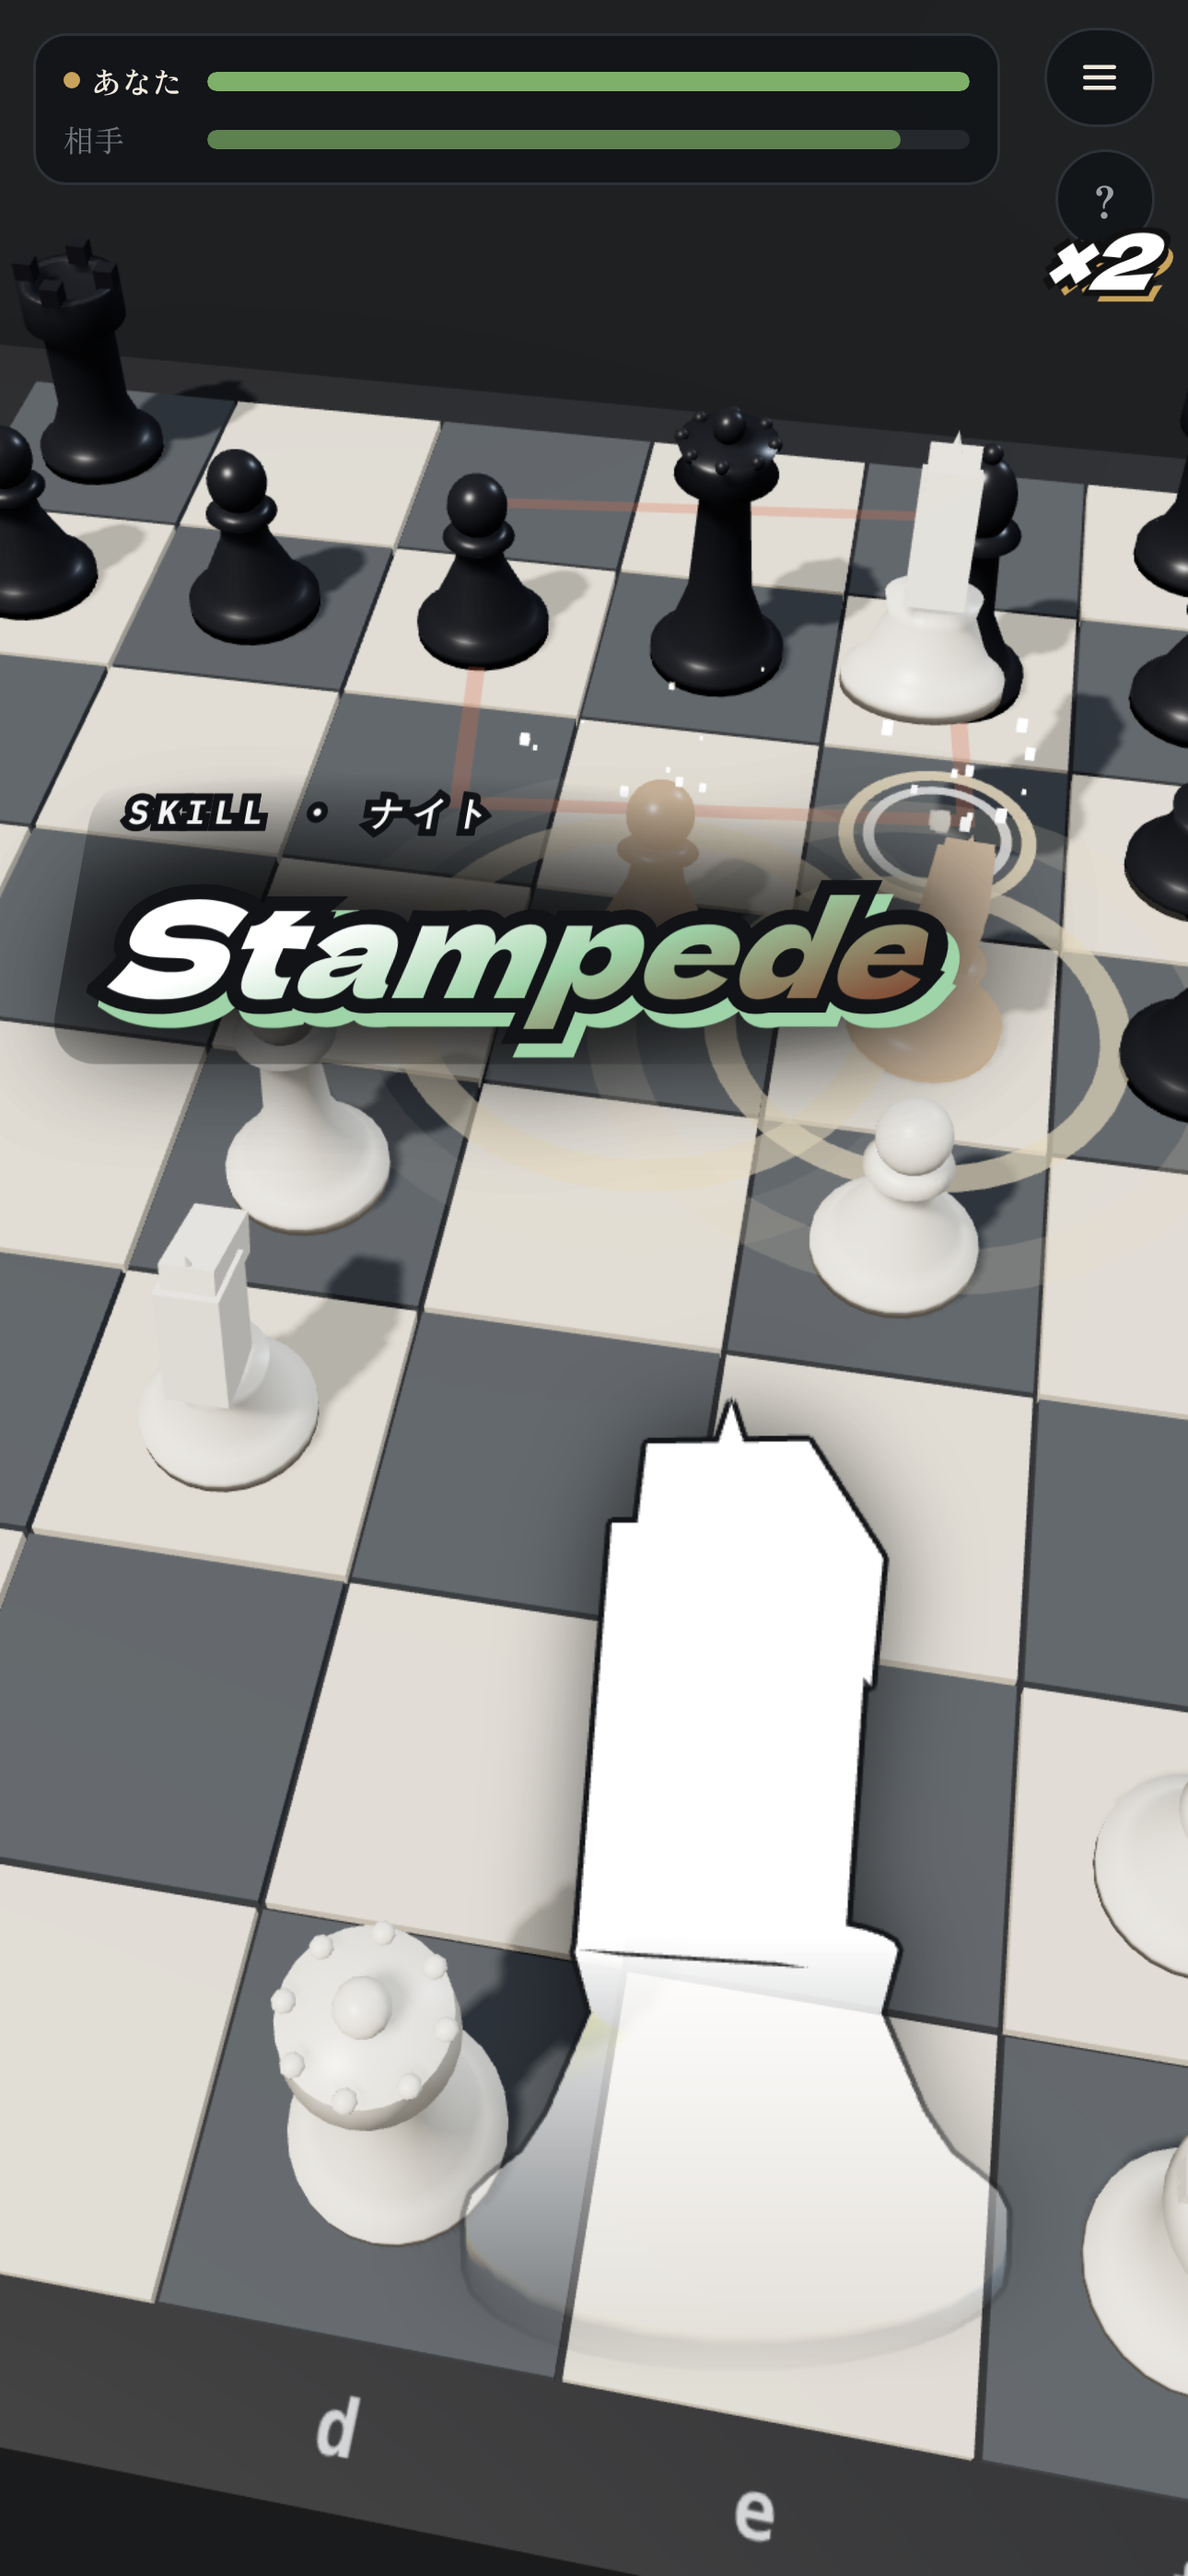
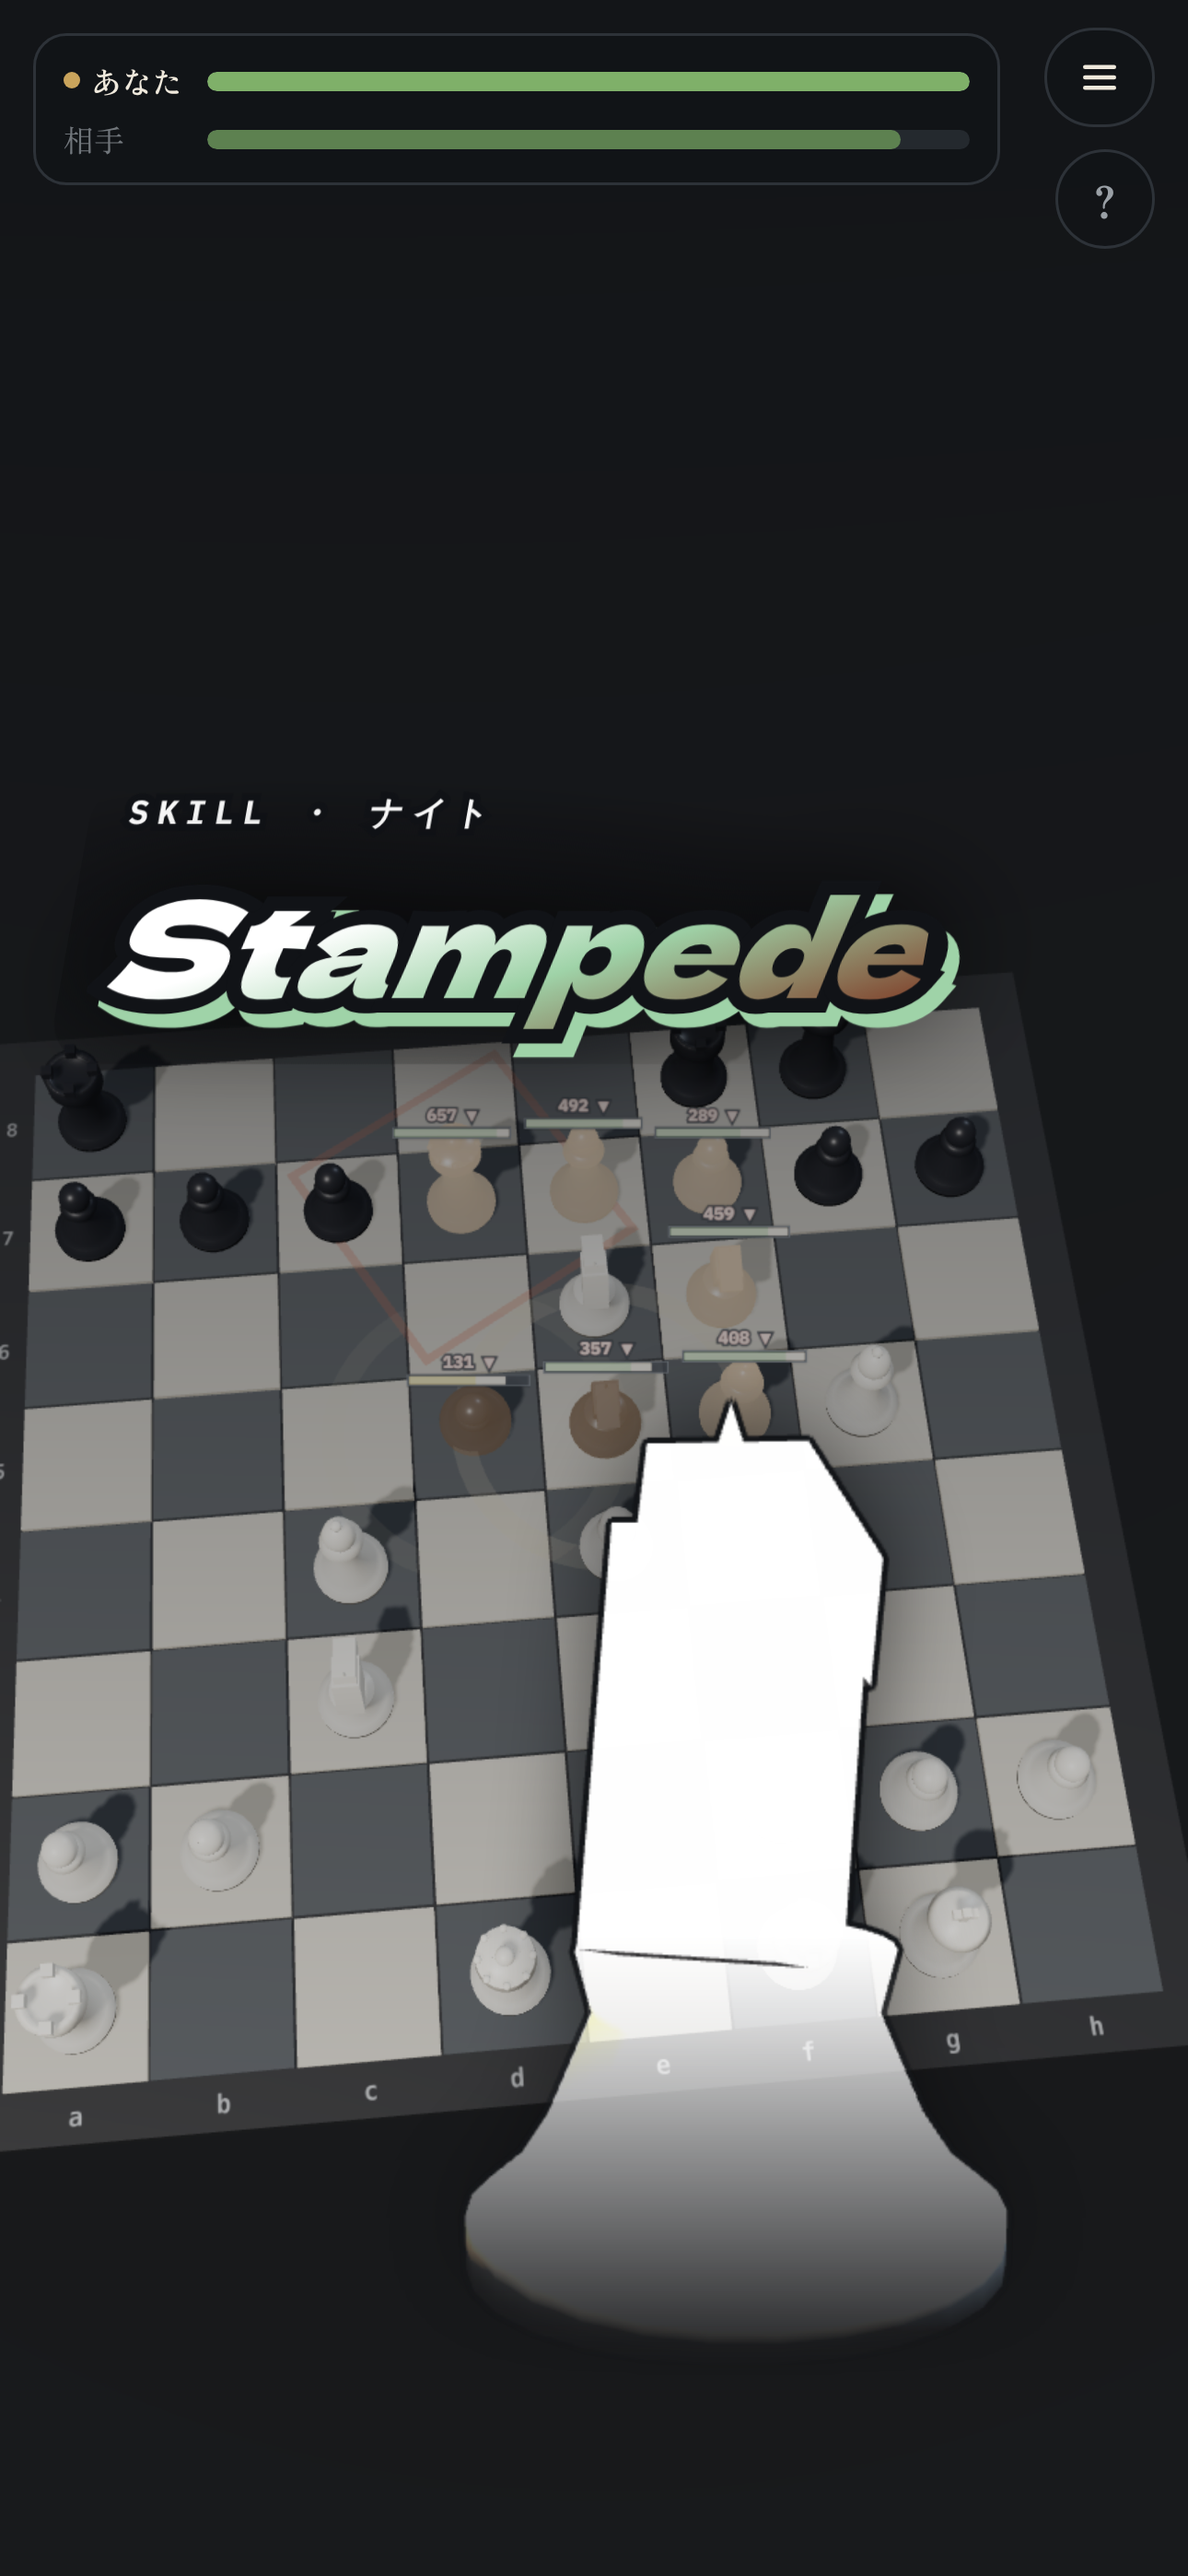
Catch the cut-in and the hit in the same frame
The cut-in was frozen but the shot was taken at a fixed 2.6s, by which time
the attack effect was over. Now the move is burst-captured and the frame is
chosen by __G.fx() (live effect particles), restricted to frames where the
frozen card is on screen. Every shot carries both the skill card and its
effect: Laser's beam, Overkill's shatter, Spoils' heal pillar and +479,
Stampede's damage numbers.

Also: the Spoils "bug" reported in the previous commit was not a game bug.
Headless Chromium stops rendering when nothing forces a frame (frameN 78 in
14s, timeScale stuck at 0.13), so the move never finished in the capture.
Nothing is wrong with the game; the capture now drives frames itself.

Claude-Session: https://claude.ai/code/session_01UoCaNP4Uyn1TJQHmdQYghU

diff --git a/thechess-app/www/index.html b/thechess-app/www/index.html
@@ -5730,7 +5730,7 @@ setPos(list,side){for(const p of pieces)if(p.mesh)scene.remove(p.mesh);pieces.le
   go(fromSq,toSq,kind,roll){const p=__T.at(fromSq);const f='abcdefgh'.indexOf(toSq[0]),r=+toSq[1];let pool=kind==='skill'?skillMoves(p):movesOfT(p);if(kind==='fork'){const fm=forkMove(p);for(const h of fm.hits)h.roll=roll!=null?roll:h.dmax;return perform(p,fm,false);}
     const m=pool.find(x=>x.f===f&&x.r===r);if(!m)return 'nomove';if(m.attack)m.roll=roll!=null?roll:m.dmax;if(!m.tags)m.tags=tagsFor(p,m);return perform(p,m,false).then(()=>'ok');}};
 window.__RB={mkPiece};   /* ルールブックの iframe が実物の駒モデルを借りる */
-window.__G={net:()=>({mode:ON.mode,code:RM.code,host:RM.host,direct:RM.direct,rtOpen:RT.open,pc:RT.pc&&RT.pc.connectionState,ch:RT.ch&&RT.ch.readyState,seen:RM.seen,poll:!!RM.poll,side:ON.side,moves:ON.moves.length,rx:RT.rx,tx:RT.tx,last:RT.last,buf:RT.buf.length,hasCb:!!RM.onmove}),noDirect:v=>{RT.noDirect=!!v;},bgm:()=>({key:bgmKey,want:bgmWant(),ac:AC&&AC.state,set:RKS.bgm,gain:bgmNode?+bgmNode.g.gain.value.toFixed(3):null,loop:bgmNode?[+bgmNode.src.loopStart.toFixed(4),+bgmNode.src.loopEnd.toFixed(4)]:null,bufs:Object.keys(BGM).filter(k=>BGM[k].buf),secs:+Object.keys(BGM).filter(k=>BGM[k].buf).reduce((x,k)=>x+BGM[k].buf.duration,0).toFixed(1),loading:Object.keys(BGM).filter(k=>BGM[k].loading),err:Object.keys(BGM).filter(k=>BGM[k].err).map(k=>k+': '+BGM[k].err)}),bgmSet:v=>{RKS.bgm=v;rkSave();bgmAt=0;},thin:(sd,keep)=>{let n=0;pieces.forEach(q=>{if(q.side===sd&&q.t!=='K'&&q.alive&&++n>(keep|0)){q.alive=false;q.hp=0;}});syncMeshes();},setBare:v=>{const k=pieces.find(q=>q.t==='K');k.bare=!!v;if(!v)pieces.forEach(q=>{q.bare=false;q.bareDone=false;});},setRanked:v=>{ranked=!!v;},toTitle:()=>{over=true;$('title').classList.remove('hide');},diag:()=>({frameN,last:+last.toFixed(1),busy,turn:turnSide,over,tw:tweens.length,ts:timeScale,ff,chain:!!chain,q:techQ.length,live:chainS.live.length,tws:tweens.map(w=>({d:w.d,t:+w.t.toFixed(2),fn:String(w.fn).slice(0,90)}))}),pzCount:()=>PUZZLES.length,pzTag:()=>PUZZLES[pzIdx]&&PUZZLES[pzIdx].tag,setPos:(list,side)=>{mode='puzzle';humanSide='w';pzEnded=true;$('pzBar').classList.remove('on');$('result').classList.remove('on');$('pzDone').classList.remove('on');puzzleSetup(list,side||'w');const t=$('title');t.classList.add('hide');t.classList.remove('leaving');CAM.shot=topShot();busy=true;setTimeout(()=>{busy=false;startHuman();},900);},startPuzzle:i=>startPuzzle(i),vo:()=>({loaded:Object.values(voBuf).filter(b=>b&&b!=='loading').length,cur:voCur&&{start:+voCur.start.toFixed(2),end:+voCur.end.toFixed(2),prio:voCur.prio},t:AC&&+AC.currentTime.toFixed(2)}),sd:()=>[stallN,sdStage],gmInfo:()=>({depth:gmDepthDone,nodes:gmNodes,ms:gmLastMs,maxd:GM_MAXD,budget:GM_MS}),sim:(lw,lb,maxP)=>{const snap=pieces.map(q=>({q,f:q.f,r:q.r,hp:q.hp,alive:q.alive,t:q.t,max:q.max,bare:q.bare,walked:q.walked,moved:q.moved,bonus:q.bonus}));let side='w',n=0,res='draw';
+window.__G={net:()=>({mode:ON.mode,code:RM.code,host:RM.host,direct:RM.direct,rtOpen:RT.open,pc:RT.pc&&RT.pc.connectionState,ch:RT.ch&&RT.ch.readyState,seen:RM.seen,poll:!!RM.poll,side:ON.side,moves:ON.moves.length,rx:RT.rx,tx:RT.tx,last:RT.last,buf:RT.buf.length,hasCb:!!RM.onmove}),noDirect:v=>{RT.noDirect=!!v;},bgm:()=>({key:bgmKey,want:bgmWant(),ac:AC&&AC.state,set:RKS.bgm,gain:bgmNode?+bgmNode.g.gain.value.toFixed(3):null,loop:bgmNode?[+bgmNode.src.loopStart.toFixed(4),+bgmNode.src.loopEnd.toFixed(4)]:null,bufs:Object.keys(BGM).filter(k=>BGM[k].buf),secs:+Object.keys(BGM).filter(k=>BGM[k].buf).reduce((x,k)=>x+BGM[k].buf.duration,0).toFixed(1),loading:Object.keys(BGM).filter(k=>BGM[k].loading),err:Object.keys(BGM).filter(k=>BGM[k].err).map(k=>k+': '+BGM[k].err)}),bgmSet:v=>{RKS.bgm=v;rkSave();bgmAt=0;},thin:(sd,keep)=>{let n=0;pieces.forEach(q=>{if(q.side===sd&&q.t!=='K'&&q.alive&&++n>(keep|0)){q.alive=false;q.hp=0;}});syncMeshes();},setBare:v=>{const k=pieces.find(q=>q.t==='K');k.bare=!!v;if(!v)pieces.forEach(q=>{q.bare=false;q.bareDone=false;});},setRanked:v=>{ranked=!!v;},toTitle:()=>{over=true;$('title').classList.remove('hide');},diag:()=>({frameN,last:+last.toFixed(1),busy,turn:turnSide,over,tw:tweens.length,ts:timeScale,ff,chain:!!chain,q:techQ.length,live:chainS.live.length,tws:tweens.map(w=>({d:w.d,t:+w.t.toFixed(2),fn:String(w.fn).slice(0,90)}))}),pzCount:()=>PUZZLES.length,pzTag:()=>PUZZLES[pzIdx]&&PUZZLES[pzIdx].tag,fx:()=>parts.length,setPos:(list,side)=>{mode='puzzle';humanSide='w';pzEnded=true;$('pzBar').classList.remove('on');$('result').classList.remove('on');$('pzDone').classList.remove('on');puzzleSetup(list,side||'w');const t=$('title');t.classList.add('hide');t.classList.remove('leaving');CAM.shot=topShot();busy=true;setTimeout(()=>{busy=false;startHuman();},900);},startPuzzle:i=>startPuzzle(i),vo:()=>({loaded:Object.values(voBuf).filter(b=>b&&b!=='loading').length,cur:voCur&&{start:+voCur.start.toFixed(2),end:+voCur.end.toFixed(2),prio:voCur.prio},t:AC&&+AC.currentTime.toFixed(2)}),sd:()=>[stallN,sdStage],gmInfo:()=>({depth:gmDepthDone,nodes:gmNodes,ms:gmLastMs,maxd:GM_MAXD,budget:GM_MS}),sim:(lw,lb,maxP)=>{const snap=pieces.map(q=>({q,f:q.f,r:q.r,hp:q.hp,alive:q.alive,t:q.t,max:q.max,bare:q.bare,walked:q.walked,moved:q.moved,bonus:q.bonus}));let side='w',n=0,res='draw';
   while(n<maxP){cpuLevel=side==='w'?lw:lb;const c=cpuChoose(side);if(!c){res='nomove';break;}const [p0,m0]=c;if(m0.attack)m0.roll=rollDmg(m0);if(m0.fork)m0.hits.forEach(h=>h.roll=rollDmg(h));make(p0,m0,false);n++;if(!kingOf('w')){res='b';break;}if(!kingOf('b')){res='w';break;}side=side==='w'?'b':'w';}
   for(const s0 of snap)Object.assign(s0.q,{f:s0.f,r:s0.r,hp:s0.hp,alive:s0.alive,t:s0.t,max:s0.max,bare:s0.bare,walked:s0.walked,moved:s0.moved,bonus:s0.bonus});lastMove=null;lastMover={w:null,b:null};discBuff={w:null,b:null};cpuLevel='normal';return [res,n];},setLv:v=>{cpuLevel=v;},timeCpu:(side,n)=>{const out=[];for(const lv of ['easy','normal','hard']){cpuLevel=lv;const t=performance.now();const r=cpuChoose(side);out.push([lv,Math.round(performance.now()-t),r&&('abcdefgh'[r[0].f]+r[0].r+'>'+'abcdefgh'[r[1].f]+r[1].r)]);}cpuLevel='normal';return out;},barTest:(from,to)=>{const q=pieces.find(x=>x.alive);const b=hpBar(q);b.shown=from;b.lag=from;drawBar(b);b.shown=to;b.lag=to;drawBar(b);const out=[];const t0=performance.now();return new Promise(res=>{const iv=setInterval(()=>{drawBar(b);out.push(b.disp);if(performance.now()-t0>700){clearInterval(iv);scene.remove(b.spr);res(out);}},60);});},tapSq:sq=>uiTap({f:'abcdefgh'.indexOf(sq[0]),r:+sq[1]}),ui:()=>({sel:sel&&('abcdefgh'[sel.f]+sel.r),skill:uiSkill,pending:!!uiPending,runes:runeG.children.length}),tech:(n,s)=>showTech(n,s),aim(p,m){focus(p);openPad();setTimeout(()=>{choose(m);padInfo(m);},450);},set speed(v){dbgSpeed=v},pieces,get busy(){return busy},get over(){return over},get turn(){return turnSide},start,playerMove:(p,m)=>playerMove(p,m),movesOfT,cpuChoose,skillMoves,forkMove,get sel(){return sel}};
 })();

diff --git a/tools/shot/shots.js b/tools/shot/shots.js
@@ -1,10 +1,12 @@
+/* カットインを止めたまま、攻撃エフェクトが最高潮のコマを撮る。
+   ヘッドレスは描画を強く間引くので、連写してフレームを進めながら撮る。 */
 const {chromium}=require('playwright');
-const fs=require('fs');
+const fs=require('fs'),path=require('path');
 const wait=ms=>new Promise(r=>setTimeout(r,ms));
 const JOB=require('./pos.js');
-/* 事前に www/ を http://127.0.0.1:8731 で配ってから node tools/shot/shots.js */
 const OUT=process.env.OUT||(__dirname+'/out/');
-fs.mkdirSync(OUT,{recursive:true});
+const TMP=OUT+'tmp/';
+fs.mkdirSync(TMP,{recursive:true});
 
 const INIT=()=>{
   try{localStorage.setItem('nc_rank',JSON.stringify({rate:2180,name:'Shuji',unlim:true,se:false,vo:false,bgm:false}));
@@ -34,51 +36,56 @@ const INIT=()=>{
     document.querySelectorAll('.tbn2').forEach(e=>{e.__nr=0;e.remove=Element.prototype.remove;e.remove();});};
 };
 
-const play=(pg,j)=>pg.evaluate(async j=>{
+const play=(pg,j)=>pg.evaluate(j=>{
   const F=s=>'abcdefgh'.indexOf(s[0]), R=s=>+s[1];
-  __G.setPos(j.pos,'w');
-  await new Promise(r=>setTimeout(r,1400));
   const p=__G.pieces.find(q=>q.alive&&q.side==='w'&&q.f===F(j.from)&&q.r===R(j.from));
-  if(!p)return 'no piece '+j.from;
+  if(!p)return 'no piece';
   let m;
   if(j.kind==='fork')m=__G.forkMove(p);
   else if(j.kind==='cannon')m=(__G.skillMoves(p)||[]).find(x=>x.cannon);
   else m=(__G.movesOfT(p)||[]).find(x=>x.f===F(j.to)&&x.r===R(j.to));
   if(!m)return 'no move';
-  __G.playerMove(p,m);
-  return 'ok';
+  __G.playerMove(p,m);return 'ok';
 },j);
 
+const N=30;
 (async()=>{
- const b=await chromium.launch({args:['--no-sandbox','--use-gl=swiftshader','--enable-unsafe-swiftshader']});
+ const b=await chromium.launch({args:['--no-sandbox','--use-gl=swiftshader','--enable-unsafe-swiftshader',
+   '--disable-background-timer-throttling','--disable-renderer-backgrounding','--disable-backgrounding-occluded-windows']});
  for(const [sz,w,h] of [['6.7',430,932],['6.5',414,896]])
  for(const [lg,loc] of [['ja','ja-JP'],['en','en-US']]){
   const c=await b.newContext({viewport:{width:w,height:h},deviceScaleFactor:3,locale:loc});
   await c.addInitScript(INIT);
   const pg=await c.newPage();
-  await pg.goto('http://127.0.0.1:8731/index.html',{waitUntil:'load'});await wait(5000);
+  await pg.goto('http://127.0.0.1:8731/index.html',{waitUntil:'load'});await wait(4000);
   for(const name of Object.keys(JOB)){
    const j=JOB[name];
-   if(j.want){
-    let ok=0,msg='';
-    for(let t=0;t<8&&!ok;t++){
-     await pg.evaluate(w=>{window.__WANT=w;window.__FROZE=0;},j.want);
-     msg=await play(pg,j);
-     await wait(2600);
-     ok=await pg.evaluate(()=>window.__FROZE|0);
-     if(ok)await pg.screenshot({path:`${OUT}${sz}-${lg}-${name}.png`});
-     await pg.evaluate(()=>window.__clear());
-     await wait(300);
-    }
-    console.log(sz,lg,name,ok?'OK':'MISS '+msg);
-   }else{
-    await pg.evaluate(()=>{window.__WANT='\u0000';window.__FROZE=0;});
+   if(fs.existsSync(`${OUT}${sz}-${lg}-${name}.png`)){console.log(sz,lg,name,'skip');continue;}
+   let done=false;
+   for(let t=0;t<6&&!done;t++){
+    for(const f of fs.readdirSync(TMP))fs.unlinkSync(TMP+f);
+    await pg.evaluate(w=>{window.__WANT=w||'\u0000';window.__FROZE=0;},j.want);
+    await pg.evaluate(j=>__G.setPos(j.pos,'w'),j);
+    for(let i=0;i<10;i++){await pg.screenshot({path:TMP+'w.png'});}   /* 盤が落ち着くまでフレームを回す */
     const msg=await play(pg,j);
-    for(let t=1;t<=14;t++){await wait(150);
-      await pg.screenshot({path:`${OUT}${sz}-${lg}-${name}-${String(t*150).padStart(4,'0')}.png`});}
-    await pg.evaluate(()=>window.__clear());
-    console.log(sz,lg,name,'burst',msg);
+    if(msg!=='ok'){console.log(sz,lg,name,msg);break;}
+    const fxN=[];
+    for(let i=1;i<=N;i++){const nm=String(i).padStart(3,'0');
+      await pg.screenshot({path:TMP+nm+'.png'});
+      fxN.push(Object.assign({f:nm+'.png'},await pg.evaluate(()=>({n:__G.fx(),card:(window.__FROZE|0)>0}))));}
+    const froze=await pg.evaluate(()=>window.__FROZE|0);
+    if(j.want&&!froze){await pg.evaluate(()=>window.__clear());await wait(200);continue;}
+    let pool=j.want?fxN.filter(x=>x.card):fxN;
+    if(!pool.length)pool=fxN;
+    const files=pool.slice().sort((a,b)=>b.n-a.n);
+    fs.copyFileSync(TMP+files[0].f,`${OUT}${sz}-${lg}-${name}.png`);
+    /* 2番手も残しておく（選び直し用） */
+    fs.copyFileSync(TMP+files[1].f,`${OUT}${sz}-${lg}-${name}-alt.png`);
+    console.log(sz,lg,name,'OK',files[0].f,'parts='+files[0].n);
+    done=true;
+    await pg.evaluate(()=>window.__clear());await wait(200);
    }
+   if(!done)console.log(sz,lg,name,'MISS');
   }
   await c.close();
  }

diff --git a/STORE.md b/STORE.md
@@ -246,9 +246,10 @@ Apple の上限は1枠10枚なので、これで枠はちょうど埋まる。
 
 ダメージは乱数なので、狙ったカットインが出るまで同じ手を最大20回指し直す。
 
-**このとき見つけたゲーム側の不具合（未修正）**:
-ビショップのスライド攻撃で敵を倒したとき、HP回復（Spoils）は起きるのに
-`Spoils` のカットインだけが出ない。ナイトの攻撃では出る。スクショはナイトで撮ってある。
+ヘッドレスのブラウザは画面を更新しないと描画を止めてしまう（1秒に数コマまで落ちる）。
+演出の途中で止まって見えるのはそのせいなので、**連写しながらコマを進める**。
+各コマで `__G.fx()`（画面上のエフェクト粒子の数）を読み、**いちばん粒子が多いコマ**＝
+攻撃エフェクトの最高潮を採用する。カットインは止めてあるので、両方が同じ絵に入る。
 
 ### 実機で撮るなら
 
